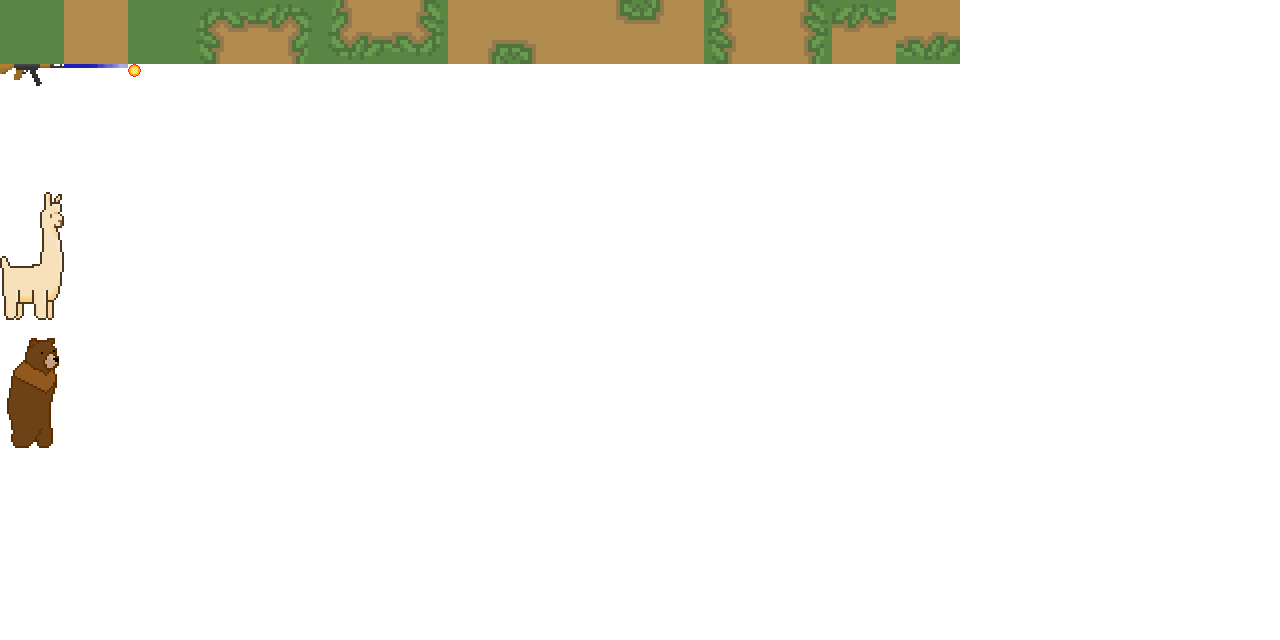
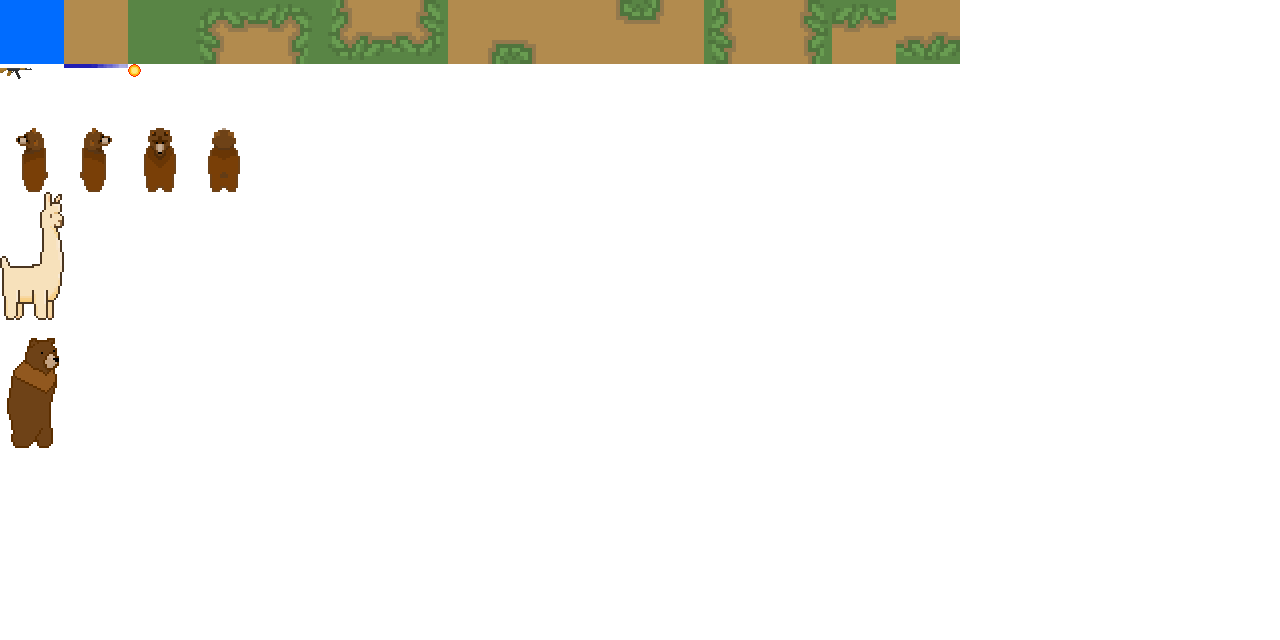
changed animations

Changed region(s): [[0.0, 0.1875, 0.1875, 0.3125], [0.0, 0.0, 0.0625, 0.125]]

diff --git a/llama_game.js b/llama_game.js
@@ -1,7 +1,7 @@
 "use strict";
 
 //To do:
-//optimize hitboxes
+//fix lagging
 //add rolling/dashing
 //add recoil
 //set up map editor
@@ -14,7 +14,7 @@ const WORLD_CENTER_Y = WORLD_HEIGHT/2;
 const PLAYER_HITBOX_SIZE = 1;
 const BULLET_HITBOX_SIZE = 0.1;
 const ENEMY_HITBOX_SIZE = 1.5;
-const SPEED = 2;
+const SPEED = 1;
 const ENEMY_SPEED = 0.1;
 const ENEMY_INTERVAL = 1000;
 const PLAYER_BULLET_SPEED = 12;
@@ -29,7 +29,7 @@ let enemies = [];
 
 let wall_tile; 
 let empty_tile;
-let player_tile;
+let player_tiles;
 let gun_tile;
 let bullet_tile;
 let enemy_tile;
@@ -37,6 +37,8 @@ let tiles;
 let crosshairs;
 
 let crosshair_frame = 0;
+let player_tile_current = 2;
+let gun_behind = false;
 
 let key_w = false;
 let key_a = false;
@@ -210,8 +212,8 @@ class Bullet {
             this.dy = dy/l + Math.random()/10 - 0.05;
         }
         this.speed = speed;
-        this.x = x + this.dx;
-        this.y = y + this.dy;
+        this.x = x + this.dx / PLAYER_BULLET_SPEED;
+        this.y = y + this.dy / PLAYER_BULLET_SPEED;
         this.alive = true;
     }
 
@@ -327,18 +329,19 @@ function setUpTiles() {
     let m = getImage("combined_art.png");
     tiles = [];
     for (let i = 0; i < 15; i++) {
-        tiles[i] = new Tile(m, i * 64, 0, CW, 0, 0);
+        tiles[i] = new Tile(m, i * 64, 0, 64, 0, 0);
     }
     crosshairs = [];
     for (let i = 0; i < 2; i++) {
-        crosshairs[i] = new Tile(m, i * 64, 64 * 7, 64, -CW/2, -CW/2);
-        crosshairs[i].scale_x = 1;
-        crosshairs[i].scale_y = 1;
+        crosshairs[i] = new Tile(m, i * 64, 64 * 7, 64, -64/2, -64/2);
     }
-    player_tile = new Tile(m, 0, 64 * 5, 2 * CW, -CW / 2, -CW - CW/8);
-    gun_tile = new Tile(m, 0, CW, CW, 0, -3);
-    bullet_tile = new Tile(m, CW * 2, CW, CW, -7, -7);
-    enemy_tile = new Tile(m, 0, 64 * 3, 2 * CW, -CW/2, -CW);
+    player_tiles = [];
+    for (let i = 0; i < 4; i++) {
+        player_tiles[i] = new Tile(m, i * 64, 64 * 2, 64, -64 / 2, -64 / 2);
+    }
+    gun_tile = new Tile(m, 0, 68, 32, 0, 0);
+    bullet_tile = new Tile(m, 64 * 2, 64, 64, -7, -7);
+    enemy_tile = new Tile(m, 0, 64 * 3, 2 * 64, -64/2, -64);
 }
 
 function resize() {
@@ -461,16 +464,9 @@ function drawTileWithTransform(ctx, tile, x, y) {
 function drawCrosshair(ctx, tile, x, y) {
     x = Math.floor(x);
     y = Math.floor(y);
-    ctx.save();
-    ctx.translate(x,y); 
-    ctx.rotate(-tile.rotation);
-    ctx.scale(tile.scale_x, tile.scale_y);
-    ctx.translate(-x,-y)
-    
     ctx.drawImage(tile.image, 
         tile.src_x, tile.src_y, tile.size, tile.size, 
         (x + tile.x_off), (y + tile.y_off), tile.size, tile.size); //changes to pixels
-    ctx.restore();
 }
 
 function screenShake(m, t) {
@@ -494,7 +490,7 @@ function resetShake() {
 
 function gunShake(dx, dy, m) {
     let l = (dx **2 + dy **2)**0.5;
-    screen_shake_x = dx / l * m + Math.random() / 10 - 0.05;
+    screen_shake_x = dx / l * m + Math.random() / 20 - 0.05;
     screen_shake_y = dy / l * m + Math.random() / 20 - 0.05;
 
 }
@@ -524,7 +520,6 @@ function movePlayer(interval) {
             doneMoving = true;
             }
         }
-        player_tile.scale_x = -1;
     }
     if (key_d && !key_a && !doneMoving) {
         if (key_w && !doneMoving) {
@@ -541,7 +536,6 @@ function movePlayer(interval) {
             doneMoving = true;
             }
         }
-        player_tile.scale_x = 1;
     }
     if (key_w && !key_s && !doneMoving) {
         player.tryMove(0,-MS);
@@ -585,14 +579,43 @@ function updateWorld(now, interval) {
     //} else {
     //}
 
-    gun_tile.rotation = (Math.atan(-mouse_y/mouse_x)); //finds the angle of mouse from middle
+    //calculating how player and gun should be drawn
+    let mouse_rotation = Math.atan(-mouse_y/mouse_x)
+    gun_tile.rotation = mouse_rotation; //finds the angle of mouse from middle
 
     if (mouse_x >= 0) {
         gun_tile.scale_x = 1;
     } else {
         gun_tile.scale_x = -1;
     }
+
+    if (mouse_rotation > Math.PI / 4) {
+        if (mouse_x >= 0) {
+            player_tile_current = 3;
+            gun_behind = true;
+        } else {
+            player_tile_current = 2;
+            gun_behind = false;
+        }
+    } else if (mouse_rotation >= -Math.PI / 4 && mouse_rotation <= Math.PI / 4) {
+        if (mouse_x >= 0) {
+            player_tile_current = 1;
+            gun_behind = false;
+        } else {
+            player_tile_current = 0;
+            gun_behind = false;
+        }
+    } else {
+        if (mouse_x >= 0) {
+            player_tile_current = 2;
+            gun_behind = false;
+        } else {
+            player_tile_current = 3;
+            gun_behind = true;
+        }
+    }
     
+    //gun stuff
     if (gun == 0) {
         bullets_per_shot = 1;
         bullet_interval = 100;
@@ -607,9 +630,8 @@ function updateWorld(now, interval) {
     if (left_mousedown) {
         if (now - last_bullet_time > bullet_interval) {
             crosshair_frame = 1;
-            console.log(performance.now());
             setTimeout(CrosshairTileReset, bullet_interval / 2);
-            gunShake(mouse_x, mouse_y, PLAYER_BULLET_SPEED / 50);
+            gunShake(mouse_x, mouse_y, 0.05);
             //screenShake(0.3, 20);
             setTimeout(resetShake, 20);
             for (let i = bullets_per_shot; i > 0; i--) {
@@ -677,9 +699,13 @@ function drawWorld() {
 
     //Draws the tiles
     if (game_mode == 0 || game_mode == 1) {
-        drawTileWithTransform(ctx, player_tile, player.x, player.y);
-        drawTileWithTransform(ctx, gun_tile, player.x, player.y);
-
+        if (!gun_behind) {
+            drawTileWithTransform(ctx, player_tiles[player_tile_current], player.x, player.y);
+            drawTileWithTransform(ctx, gun_tile, player.x, player.y);
+        } else {
+            drawTileWithTransform(ctx, gun_tile, player.x, player.y);
+            drawTileWithTransform(ctx, player_tiles[player_tile_current], player.x, player.y);
+        }
 
         for (let i = 0; i < bullets.length; i++) {
             if (inView(bullets[i].x, bullets[i].y, bullet_tile.size/2/CW, bullet_tile.size/2/CW)) {
